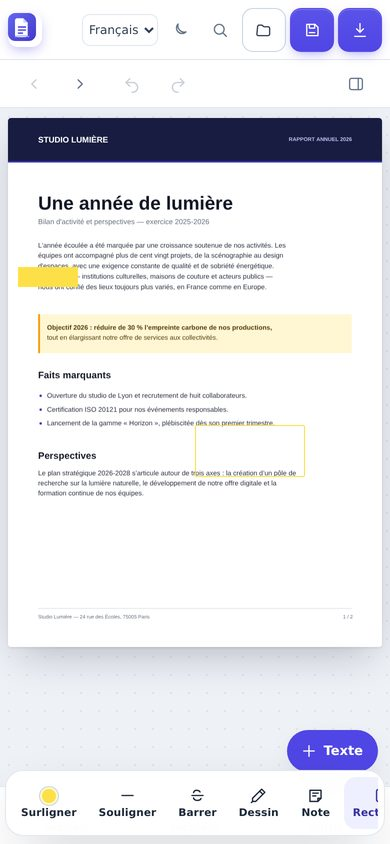
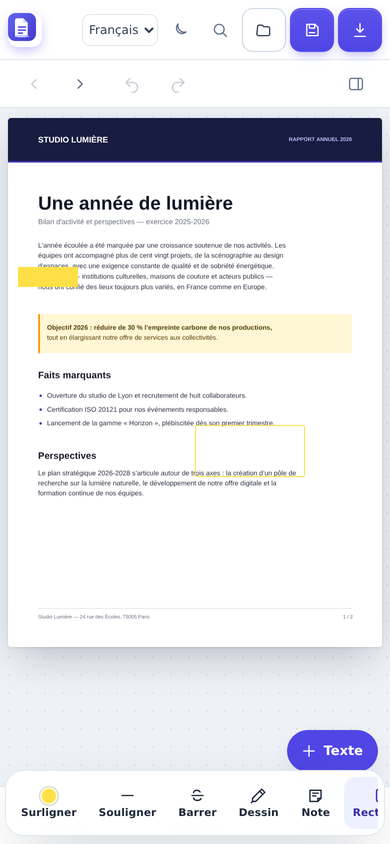
README V2.2 : gestes tactiles, captures à jour, version 2.2.0

diff --git a/README.md b/README.md
@@ -1,8 +1,8 @@
-# PDF Studio — OCR & édition de PDF · V2.1
+# PDF Studio — OCR & édition de PDF · V2.2
 
-Application web **100 % locale** : ouvrez un PDF, cliquez sur un texte pour le corriger, lancez
-l'OCR sur les pages scannées (français + anglais) puis exportez un PDF modifié et/ou une couche de
-texte recherchable.
+Application web **100 % locale** : ouvrez un PDF, corrigez le texte **directement sur la page**,
+annotez-le, signez-le, remplissez ses formulaires, lancez l'OCR sur les pages scannées puis
+exportez un PDF modifié. Tout se fait au doigt ou à la souris, sans panneau latéral.
 
 Aucun fichier n'est envoyé sur un serveur : le rendu, l'OCR, l'édition et l'export s'exécutent
 entièrement dans le navigateur.
@@ -22,6 +22,11 @@ entièrement dans le navigateur.
 | Ordinateur — document | Ordinateur — outils | Thème sombre |
 | --- | --- | --- |
 | ![Document sur ordinateur](docs/captures/document-ordinateur.png) | ![Outils sur ordinateur](docs/captures/outils-ordinateur.png) | ![Thème sombre](docs/captures/accueil-sombre-mobile.png) |
+
+Le PDF exporté, rouvert dans l'application : le tampon, la date et le surlignage font partie du
+document, ce ne sont pas de simples repères d'écran.
+
+![Export relu](docs/captures/export-relu-mobile.png)
 
 ---
 
@@ -181,6 +186,16 @@ fonctionner aussi bien à la racine que dans un sous-dossier.
    choisissez d'aplatir ou non, puis « Exporter le PDF rempli ».
 7. **Apparence et langue** : bouton lune/soleil pour le thème sombre, sélecteur de langue
    (français, anglais, arabe) dans la barre du haut.
+
+### Gestes sur téléphone
+
+| Geste | Action |
+| --- | --- |
+| Toucher une ligne | ouvrir le texte à cet endroit, prêt à corriger |
+| Pincer à deux doigts | zoomer / dézoomer dans la page |
+| Balayer horizontalement | page suivante / précédente |
+| Toucher un objet (tampon, signature) | afficher ses poignées : déplacer, redimensionner, pivoter, supprimer |
+| Glisser une vignette dans Pages | réordonner les pages |
 
 ### Raccourcis
 
